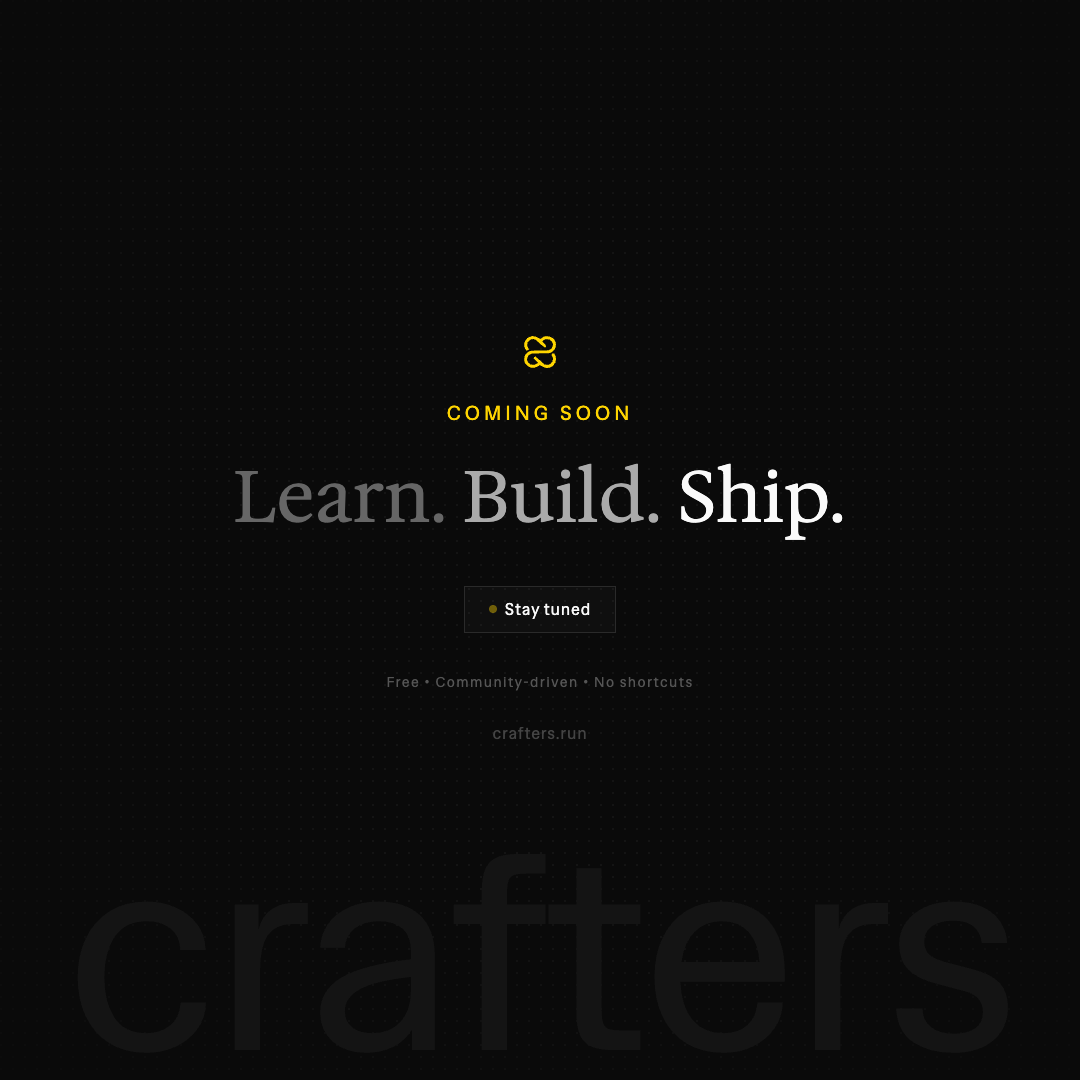
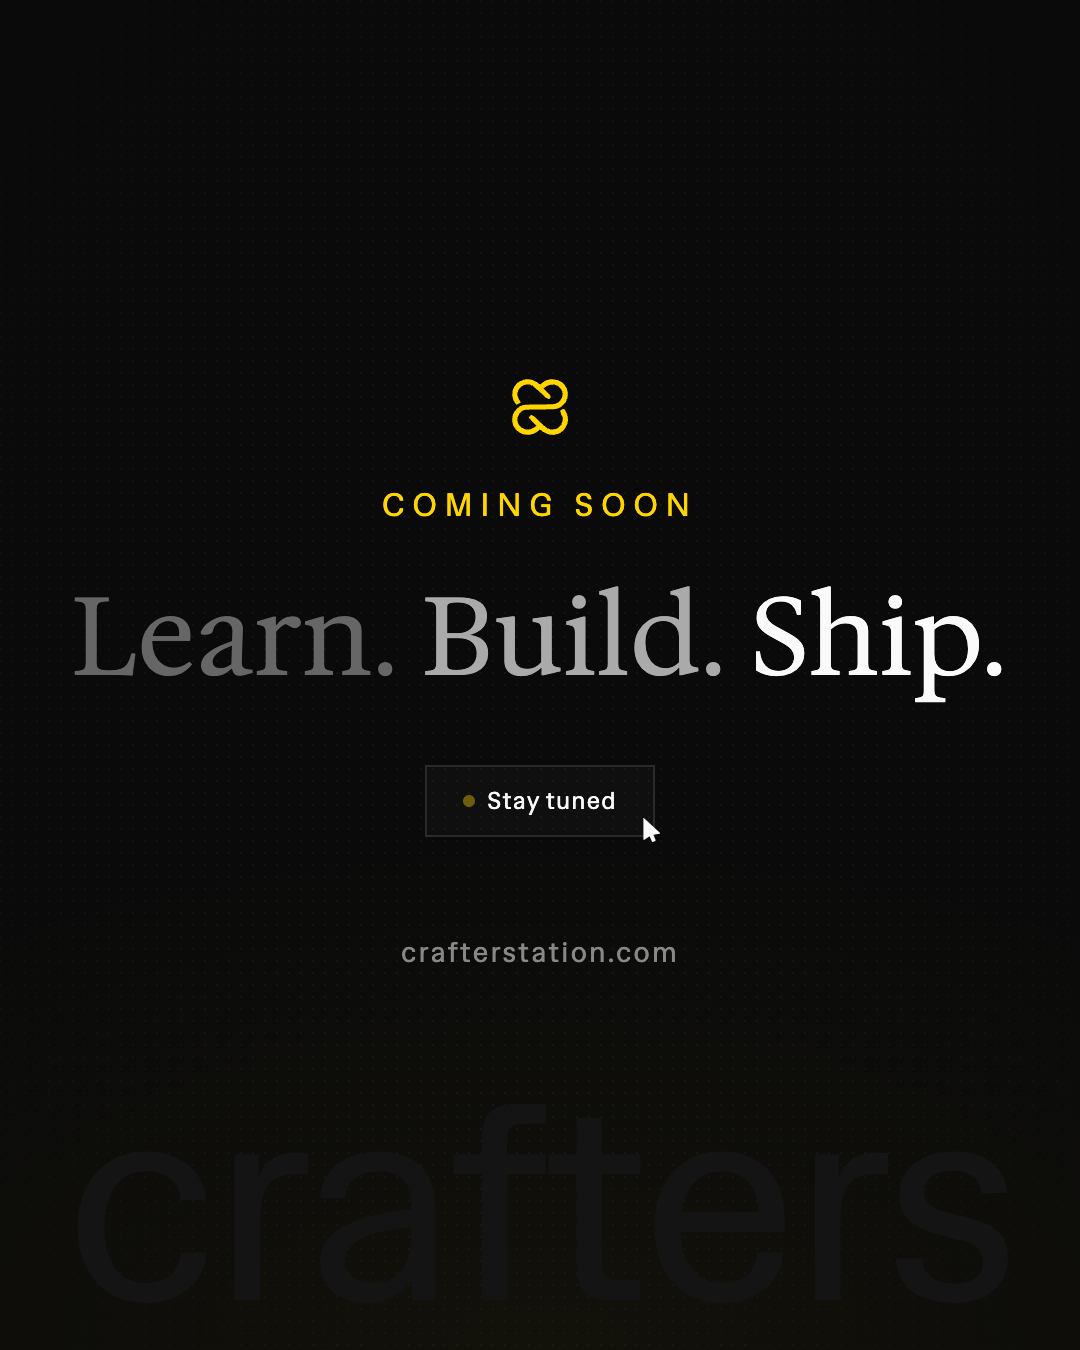
wip

diff --git a/scripts/generate-promo.ts b/scripts/generate-promo.ts
@@ -3,7 +3,7 @@ import { writeFileSync, mkdirSync, existsSync } from "fs";
 import { join } from "path";
 
 const PROMO_WIDTH = 1080;
-const PROMO_HEIGHT = 1080;
+const PROMO_HEIGHT = 1350;
 
 const LOGO_PATH =
   "M116.419 16.3268C109.59 11.5679 97.9222 5.96914 90.2388 3.72965C72.8798 -1.58913 59.1794 1.40491 50.114 4.56947C32.4704 10.7281 21.3721 18.8462 11.412 33.6828C-4.23949 56.6375 -1.96292 93.869 17.1035 114.864C21.3721 119.903 23.6487 119.063 40.1539 107.026C40.723 106.466 38.4465 102.827 35.0316 98.6278C27.3481 89.11 22.7949 71.754 25.0715 61.9563C32.4704 31.1634 70.3187 14.6472 94.7919 31.4433C100.199 35.0825 117.273 50.199 132.64 65.0356C155.691 86.8706 162.52 91.9094 168.212 91.3496C173.903 90.7897 175.895 88.8301 176.464 82.6715C177.318 75.9531 174.757 72.034 161.667 60.2767C152.845 52.1585 145.731 44.8802 145.731 43.4805C145.731 42.3608 151.707 37.6019 159.105 33.1229C206.914 3.1698 258.421 62.7961 218.581 101.987C213.459 107.026 204.353 112.345 198.377 114.024C191.547 115.704 159.959 117.104 120.688 117.104C47.2683 117.104 43.2842 117.943 23.9332 135.02C-0.824636 157.134 -6.51609 194.926 10.8429 222.359C33.3241 258.191 81.7016 267.149 115.85 241.675L128.372 232.157L142.885 241.675C166.504 257.351 185.571 260.431 208.621 252.872C254.722 237.476 271.796 179.809 241.916 141.178C238.501 136.979 236.794 136.699 232.241 138.939C218.297 146.777 218.581 146.217 226.834 163.013C233.094 175.89 234.233 180.929 232.81 190.727C228.826 215.361 210.044 231.877 186.14 231.877C167.643 231.877 161.667 228.238 127.518 195.486C109.59 178.689 93.0845 164.693 90.8079 164.693C86.5393 164.693 77.433 173.371 77.433 177.57C77.433 178.689 85.1165 187.647 94.7919 197.165L112.151 214.241L101.906 222.08C65.7655 249.233 14.2578 216.761 26.2098 174.211C29.9093 161.333 42.9996 147.057 55.5209 142.578C60.3586 140.618 90.2388 139.498 130.648 139.498C204.922 139.498 213.744 138.099 230.818 123.542C281.757 80.9919 252.161 0.930299 185.571 1.21023C166.22 1.21023 155.691 5.12933 137.762 18.2863L128.656 25.0048L116.419 16.3268Z";
@@ -75,6 +75,17 @@ function generateHTML(config: PromoConfig): string {
             mask-image: radial-gradient(ellipse 80% 80% at 50% 50%, #000 40%, transparent 100%);
           }
           
+          /* Subtle gradient from bottom center */
+          .bottom-gradient {
+            position: absolute;
+            bottom: 0;
+            left: 0;
+            right: 0;
+            height: 70%;
+            background: radial-gradient(ellipse 120% 70% at 50% 100%, rgba(255, 213, 0, 0.035) 0%, rgba(255, 213, 0, 0.015) 40%, transparent 80%);
+            pointer-events: none;
+          }
+          
           .content {
             position: relative;
             z-index: 1;
@@ -82,32 +93,32 @@ function generateHTML(config: PromoConfig): string {
             flex-direction: column;
             align-items: center;
             text-align: center;
-            padding: 60px;
+            padding: 80px 60px;
           }
           
           .logo {
-            width: 32px;
-            height: 32px;
-            margin-bottom: 32px;
+            width: 56px;
+            height: 56px;
+            margin-bottom: 48px;
           }
           
           .headline {
             font-family: 'Hedvig Letters Sans', sans-serif;
-            font-size: 20px;
+            font-size: 32px;
             font-weight: 400;
             color: #FFD500;
             text-transform: uppercase;
-            letter-spacing: 0.2em;
-            margin-bottom: 32px;
+            letter-spacing: 0.25em;
+            margin-bottom: 48px;
           }
           
           .subheadline {
             font-family: 'Hedvig Letters Serif', serif;
-            font-size: 72px;
+            font-size: 110px;
             font-weight: 400;
-            line-height: 1.1;
-            max-width: 820px;
-            margin-bottom: 48px;
+            line-height: 1.15;
+            max-width: 950px;
+            margin-bottom: 64px;
             letter-spacing: 0.02em;
           }
           
@@ -118,16 +129,17 @@ function generateHTML(config: PromoConfig): string {
           .cta-badge {
             display: inline-flex;
             align-items: center;
-            gap: 8px;
-            padding: 12px 24px;
-            border: 1px solid #2a2a2a;
+            gap: 12px;
+            padding: 18px 36px;
+            border: 2px solid #2a2a2a;
             background: rgba(255, 255, 255, 0.02);
-            margin-bottom: 40px;
+            margin-bottom: 48px;
+            position: relative;
           }
           
           .cta-dot {
-            width: 8px;
-            height: 8px;
+            width: 12px;
+            height: 12px;
             background: #FFD500;
             border-radius: 50%;
             animation: pulse 2s ease-in-out infinite;
@@ -140,29 +152,38 @@ function generateHTML(config: PromoConfig): string {
           
           .cta-text {
             font-family: 'Hedvig Letters Sans', sans-serif;
-            font-size: 16px;
+            font-size: 24px;
             color: #FAFAFA;
             letter-spacing: 0.05em;
           }
           
+          .cta-cursor {
+            position: absolute;
+            bottom: -8px;
+            right: -12px;
+            width: 28px;
+            height: 28px;
+          }
+          
           .tagline {
             font-family: 'Hedvig Letters Sans', sans-serif;
-            font-size: 14px;
-            color: #555555;
+            font-size: 22px;
+            color: #666666;
             letter-spacing: 0.1em;
           }
           
           .url {
             font-family: 'Hedvig Letters Sans', sans-serif;
-            font-size: 16px;
-            color: #444444;
-            margin-top: 32px;
-            letter-spacing: 0.05em;
+            font-size: 28px;
+            color: #888888;
+            margin-top: 48px;
+            letter-spacing: 0.08em;
+            font-weight: 400;
           }
           
           .brand-watermark {
             position: absolute;
-            bottom: -60px;
+            bottom: -40px;
             font-family: 'Hedvig Letters Sans', sans-serif;
             font-size: 280px;
             font-weight: 400;
@@ -176,6 +197,7 @@ function generateHTML(config: PromoConfig): string {
       </head>
       <body>
         <div class="dotted-bg"></div>
+        <div class="bottom-gradient"></div>
         
         <div class="content">
           <svg class="logo" viewBox="0 0 257 257" fill="none" xmlns="http://www.w3.org/2000/svg">
@@ -194,11 +216,13 @@ function generateHTML(config: PromoConfig): string {
           <div class="cta-badge">
             <div class="cta-dot"></div>
             <span class="cta-text">${config.cta}</span>
+            <svg class="cta-cursor" viewBox="0 0 24 24" fill="none" xmlns="http://www.w3.org/2000/svg">
+              <path d="M5.5 3.21V20.8C5.5 21.22 5.97 21.48 6.32 21.25L10.79 18.3L12.79 22.82C12.94 23.17 13.35 23.33 13.7 23.18L15.61 22.37C15.96 22.22 16.12 21.81 15.97 21.46L13.97 16.94L19.26 16.04C19.68 15.97 19.88 15.48 19.61 15.15L6.11 2.68C5.79 2.31 5.21 2.5 5.21 3V3.21H5.5Z" fill="#FAFAFA"/>
+            </svg>
           </div>
           
-          <div class="tagline">${config.tagline}</div>
           
-          <div class="url">crafters.run</div>
+          <div class="url">crafterstation.com</div>
         </div>
         
         <div class="brand-watermark">crafters</div>
